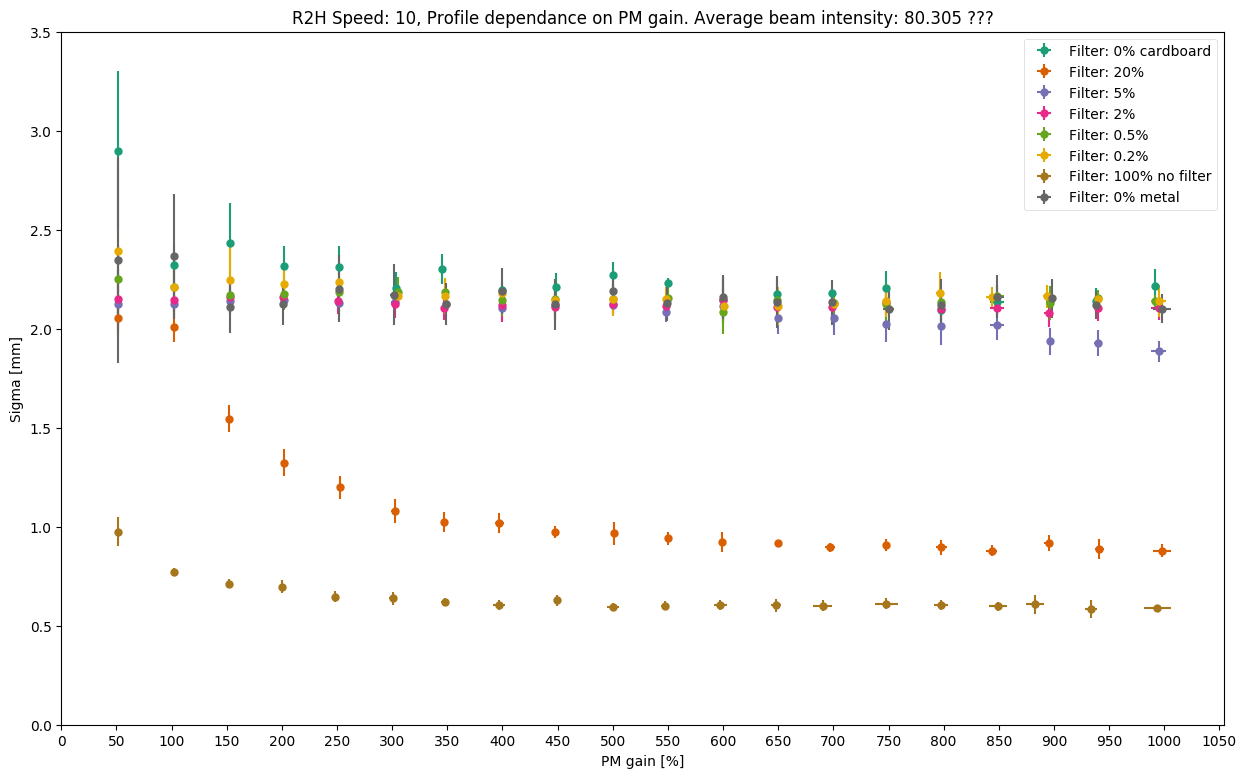
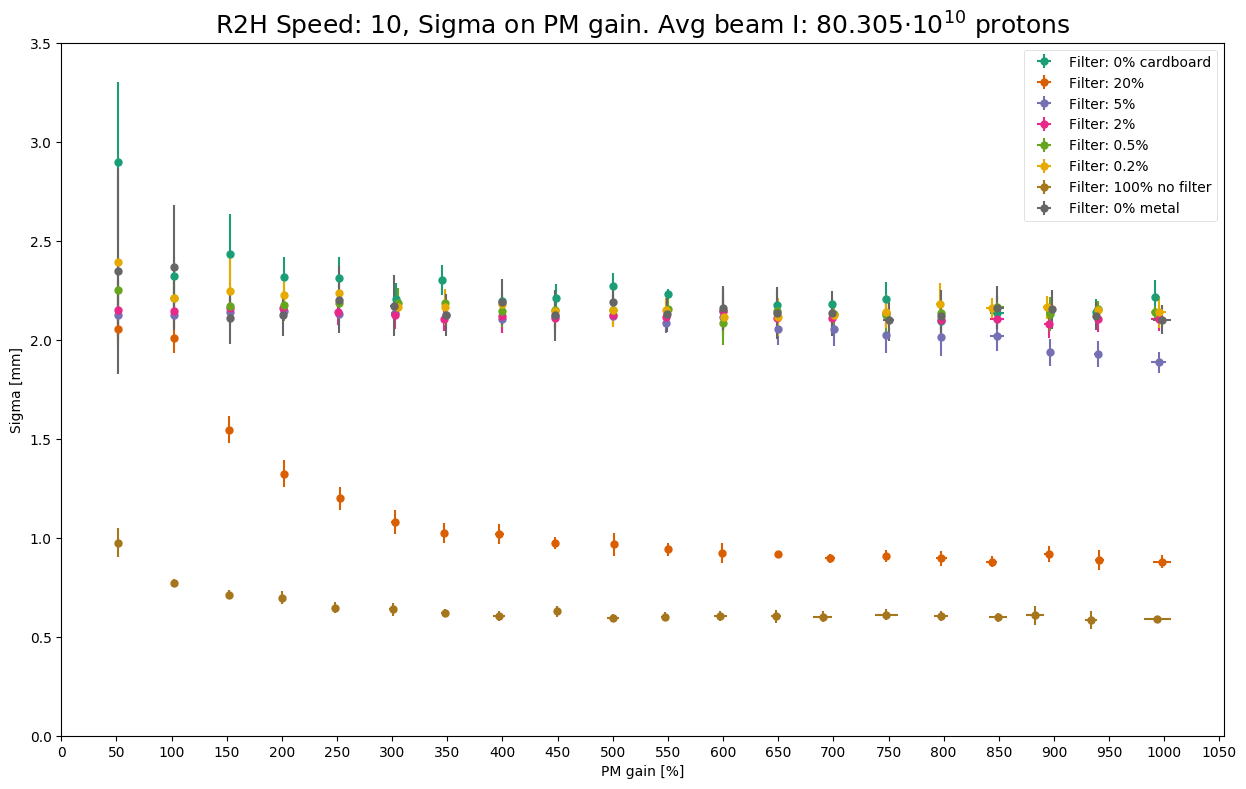
Improved plotting.

diff --git a/analyse_wirescanner.py b/analyse_wirescanner.py
@@ -2,10 +2,12 @@ import os
 import sys
 import re
 import glob
+import matplotlib
 import numpy as np
 import matplotlib.pyplot as plt
 import collections
 import seaborn as sns
+import matplotlib.axes as ax
 from matplotlib import rcParams
 from matplotlib.pyplot import figure
 from scipy.optimize import curve_fit
@@ -87,14 +89,14 @@ def plot_profile(infile):
 color_list = plt.get_cmap('Dark2')
 filter_list = ["0% cardboard", "20%", "5%", "2%", "0.5%", "0.2%", "100% no filter", "0% metal" ]
 
-run = [1,2,3,4,5]
+run = [2,4]
 filter = [0,1,2,3,4,5,6,7]
 # filter = [0,4,5,7]
 # filter = [2,3,4,5]
 # filter = [1,6]
 ring = "R2"
 plane = "H"
-speed = "10"
+speed = "15"
 measured_data_dict = collections.defaultdict(list)
 mean_bct_sum = 0
 mean_bct_length = 0
@@ -287,14 +289,16 @@ for filt in filter:
 	# plt.fill_between(np.asarray(measured_data_dict[(str(filt),"pms_final")]), np.asarray(measured_data_dict[(str(filt),"sigmas_final")])-np.asarray(measured_data_dict[(str(filt),"sigmas_final_errors")]), np.asarray(measured_data_dict[(str(filt),"sigmas_final")])+np.asarray(measured_data_dict[(str(filt),"sigmas_final_errors")]),facecolor=color_list[filt],alpha=0.5)
 	fig = plt.gcf()
 	fig.set_size_inches(15, 9)
-	plt.title(ring + plane + " Speed: " + speed + ", Profile dependance on PM gain." + " Average beam intensity: " + str(round(mean_bct,3)) + " ???")
+	plt.title(ring + plane + " Speed: " + speed + ", Sigma on PM gain." + " Avg beam I: " + str(round(mean_bct,3)) + "$ \cdot 10^{10}$ protons", fontsize=18)
 	plt.xlabel('PM gain [%]')
 	plt.xticks(np.arange(0, 1051, step=50))
-	plt.yticks(np.arange(1.5, 3, step=0.5)) # For sellected data
-	# plt.yticks(np.arange(0, 4, step=0.5)) # For all data
+	# plt.yticks(np.arange(1.5, 3, step=0.5)) # For sellected data
+	plt.yticks(np.arange(0, 4, step=0.5)) # For all data
 	plt.ylabel(r'Sigma [mm]')
 	# plt.ylabel(r'Sigma [s]')  # ----------------For time dependent measurement----------------
 	plt.legend(loc='best', prop={'size': 10}).get_frame().set_linewidth(0.5)
+	# plt.rc('grid', linestyle="dashed", color='grey')
+	# plt.grid(True)
 	# plt.savefig("sigma_on_pm_" + ring + plane + "_filter" + str(filt) + "_speed" + speed + ".png", bbox_inches='tight')
 	# plt.clf()
 
@@ -303,10 +307,12 @@ for filt in filter:
 	# plt.fill_between(np.asarray(measured_data_dict[(str(filt),"pms_final")]), np.asarray(measured_data_dict[(str(filt),"sigmas_final")])-np.asarray(measured_data_dict[(str(filt),"sigmas_final_errors")]), np.asarray(measured_data_dict[(str(filt),"sigmas_final")])+np.asarray(measured_data_dict[(str(filt),"sigmas_final_errors")]),facecolor=color_list[filt],alpha=0.5)
 	fig = plt.gcf()
 	fig.set_size_inches(15, 9)
-	plt.title(ring + plane + " Speed: " + speed + ", Profile * Amplitude dependance on intensity."  + " Average beam intensity: " + str(round(mean_bct,3)) + " ???")
+	plt.title(ring + plane + " Speed: " + speed + ", Sigma $\cdot$ Amplitude on intensity."  + " Avg beam I: " + str(round(mean_bct,3)) + "$ \cdot 10^{10}$ protons", fontsize=18)
 	plt.xlabel('Intensity [???]')
 	plt.ylabel(r'Sigma * Amplitude [mm * mA]')
 	plt.legend(loc='best', prop={'size': 10}).get_frame().set_linewidth(0.5)
+	# plt.rc('grid', linestyle="-", color='black')
+	# plt.grid(True)
 	# plt.savefig("sigma_times_area_on_intensity_" + ring + plane + "_filter" + str(filt) + "_speed" + speed + ".png", bbox_inches='tight')
 	# plt.clf()
 
@@ -315,22 +321,27 @@ for filt in filter:
 	# plt.fill_between(np.asarray(measured_data_dict[(str(filt),"pms_final")]), np.asarray(measured_data_dict[(str(filt),"sigmas_final")])-np.asarray(measured_data_dict[(str(filt),"sigmas_final_errors")]), np.asarray(measured_data_dict[(str(filt),"sigmas_final")])+np.asarray(measured_data_dict[(str(filt),"sigmas_final_errors")]),facecolor=color_list[filt],alpha=0.5)
 	fig = plt.gcf()
 	fig.set_size_inches(15, 9)
-	plt.title(ring + plane + " Speed: " + speed + ", Profile * Amplitude dependance on PM gain." + " Average beam intensity: " + str(round(mean_bct,3)) + " ???")
+	plt.title(ring + plane + " Speed: " + speed + ", Sigma $\cdot$ Amplitude on PM gain." + " Avg beam I: " + str(round(mean_bct,3)) + "$ \cdot 10^{10}$ protons", fontsize=18)
 	plt.xlabel('PM gain [%]')
 	plt.xticks(np.arange(0, 1051, step=50))
-	# plt.yticks(np.arange(-0.25, 4, step=0.25)) # For all data 
-	plt.yticks(np.arange(-0.25, 1, step=0.25)) # For sellected data
+	plt.yticks(np.arange(-0.25, 4, step=0.25)) # For all data 
+	# plt.yticks(np.arange(-0.25, 1, step=0.25)) # For sellected data
 	plt.ylabel(r'Sigma * Amplitude [mm * mA]')
 	plt.legend(loc='best', prop={'size': 10}).get_frame().set_linewidth(0.5)
+	# plt.rc('grid', linestyle="dashed", color='grey')
+	# plt.grid(True)
 	# plt.savefig("sigma_times_area_on_pm_" + ring + plane + "_filter" + str(filt) + "_speed" + speed + ".png", bbox_inches='tight')
 	# plt.clf()
 
-# plt.figure(3)
-# plt.savefig("selected_sigma_on_pm_" + ring + plane + "_speed" + speed + ".png", bbox_inches='tight')
+plt.figure(3)
+# ax.grid(color='r', linestyle='--', linewidth=2)
+plt.savefig("all_sigma_on_pm_" + ring + plane + "_speed" + speed + ".png", bbox_inches='tight')
 
 # plt.figure(4)
 # plt.savefig("all_sigma_times_area_on_intensity_" + ring + plane + "_speed" + speed + ".png", bbox_inches='tight')
 
-# plt.figure(5)
-# plt.savefig("selected_sigma_times_area_on_pm_" + ring + plane + "_speed" + speed + ".png", bbox_inches='tight')
+plt.figure(5)
+# plt.rc('grid', linestyle=':', color='g')
+# plt.grid(True)
+plt.savefig("all_sigma_times_area_on_pm_" + ring + plane + "_speed" + speed + ".png", bbox_inches='tight')
 
